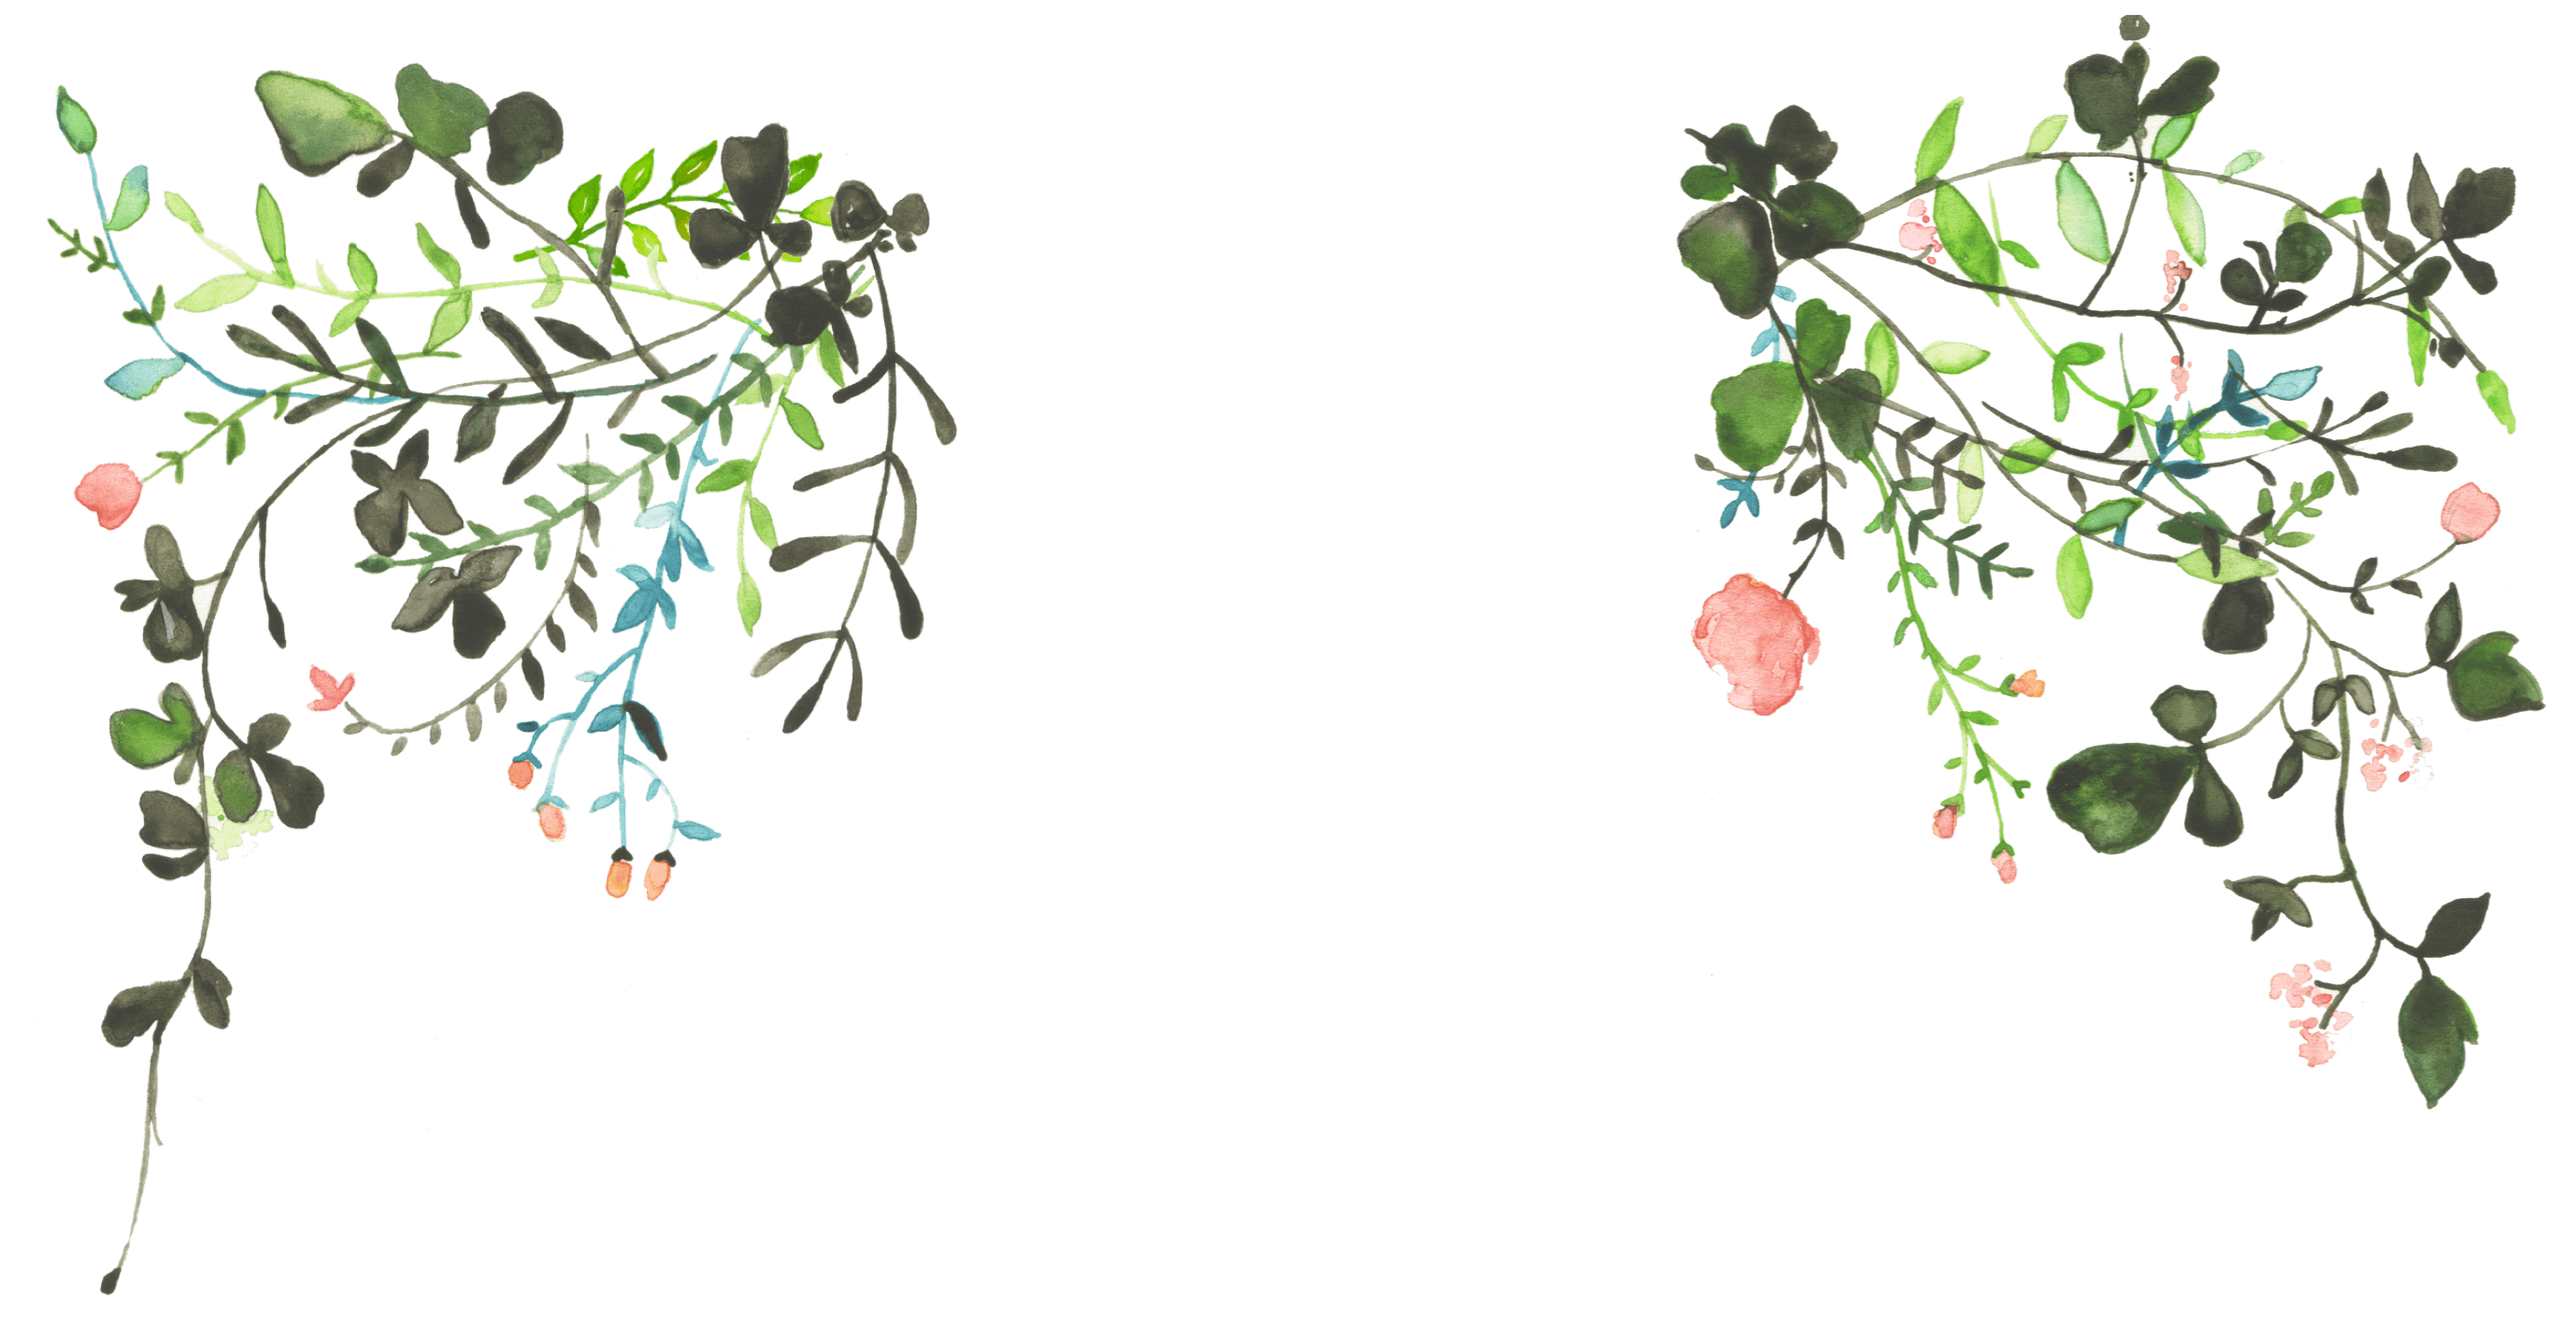
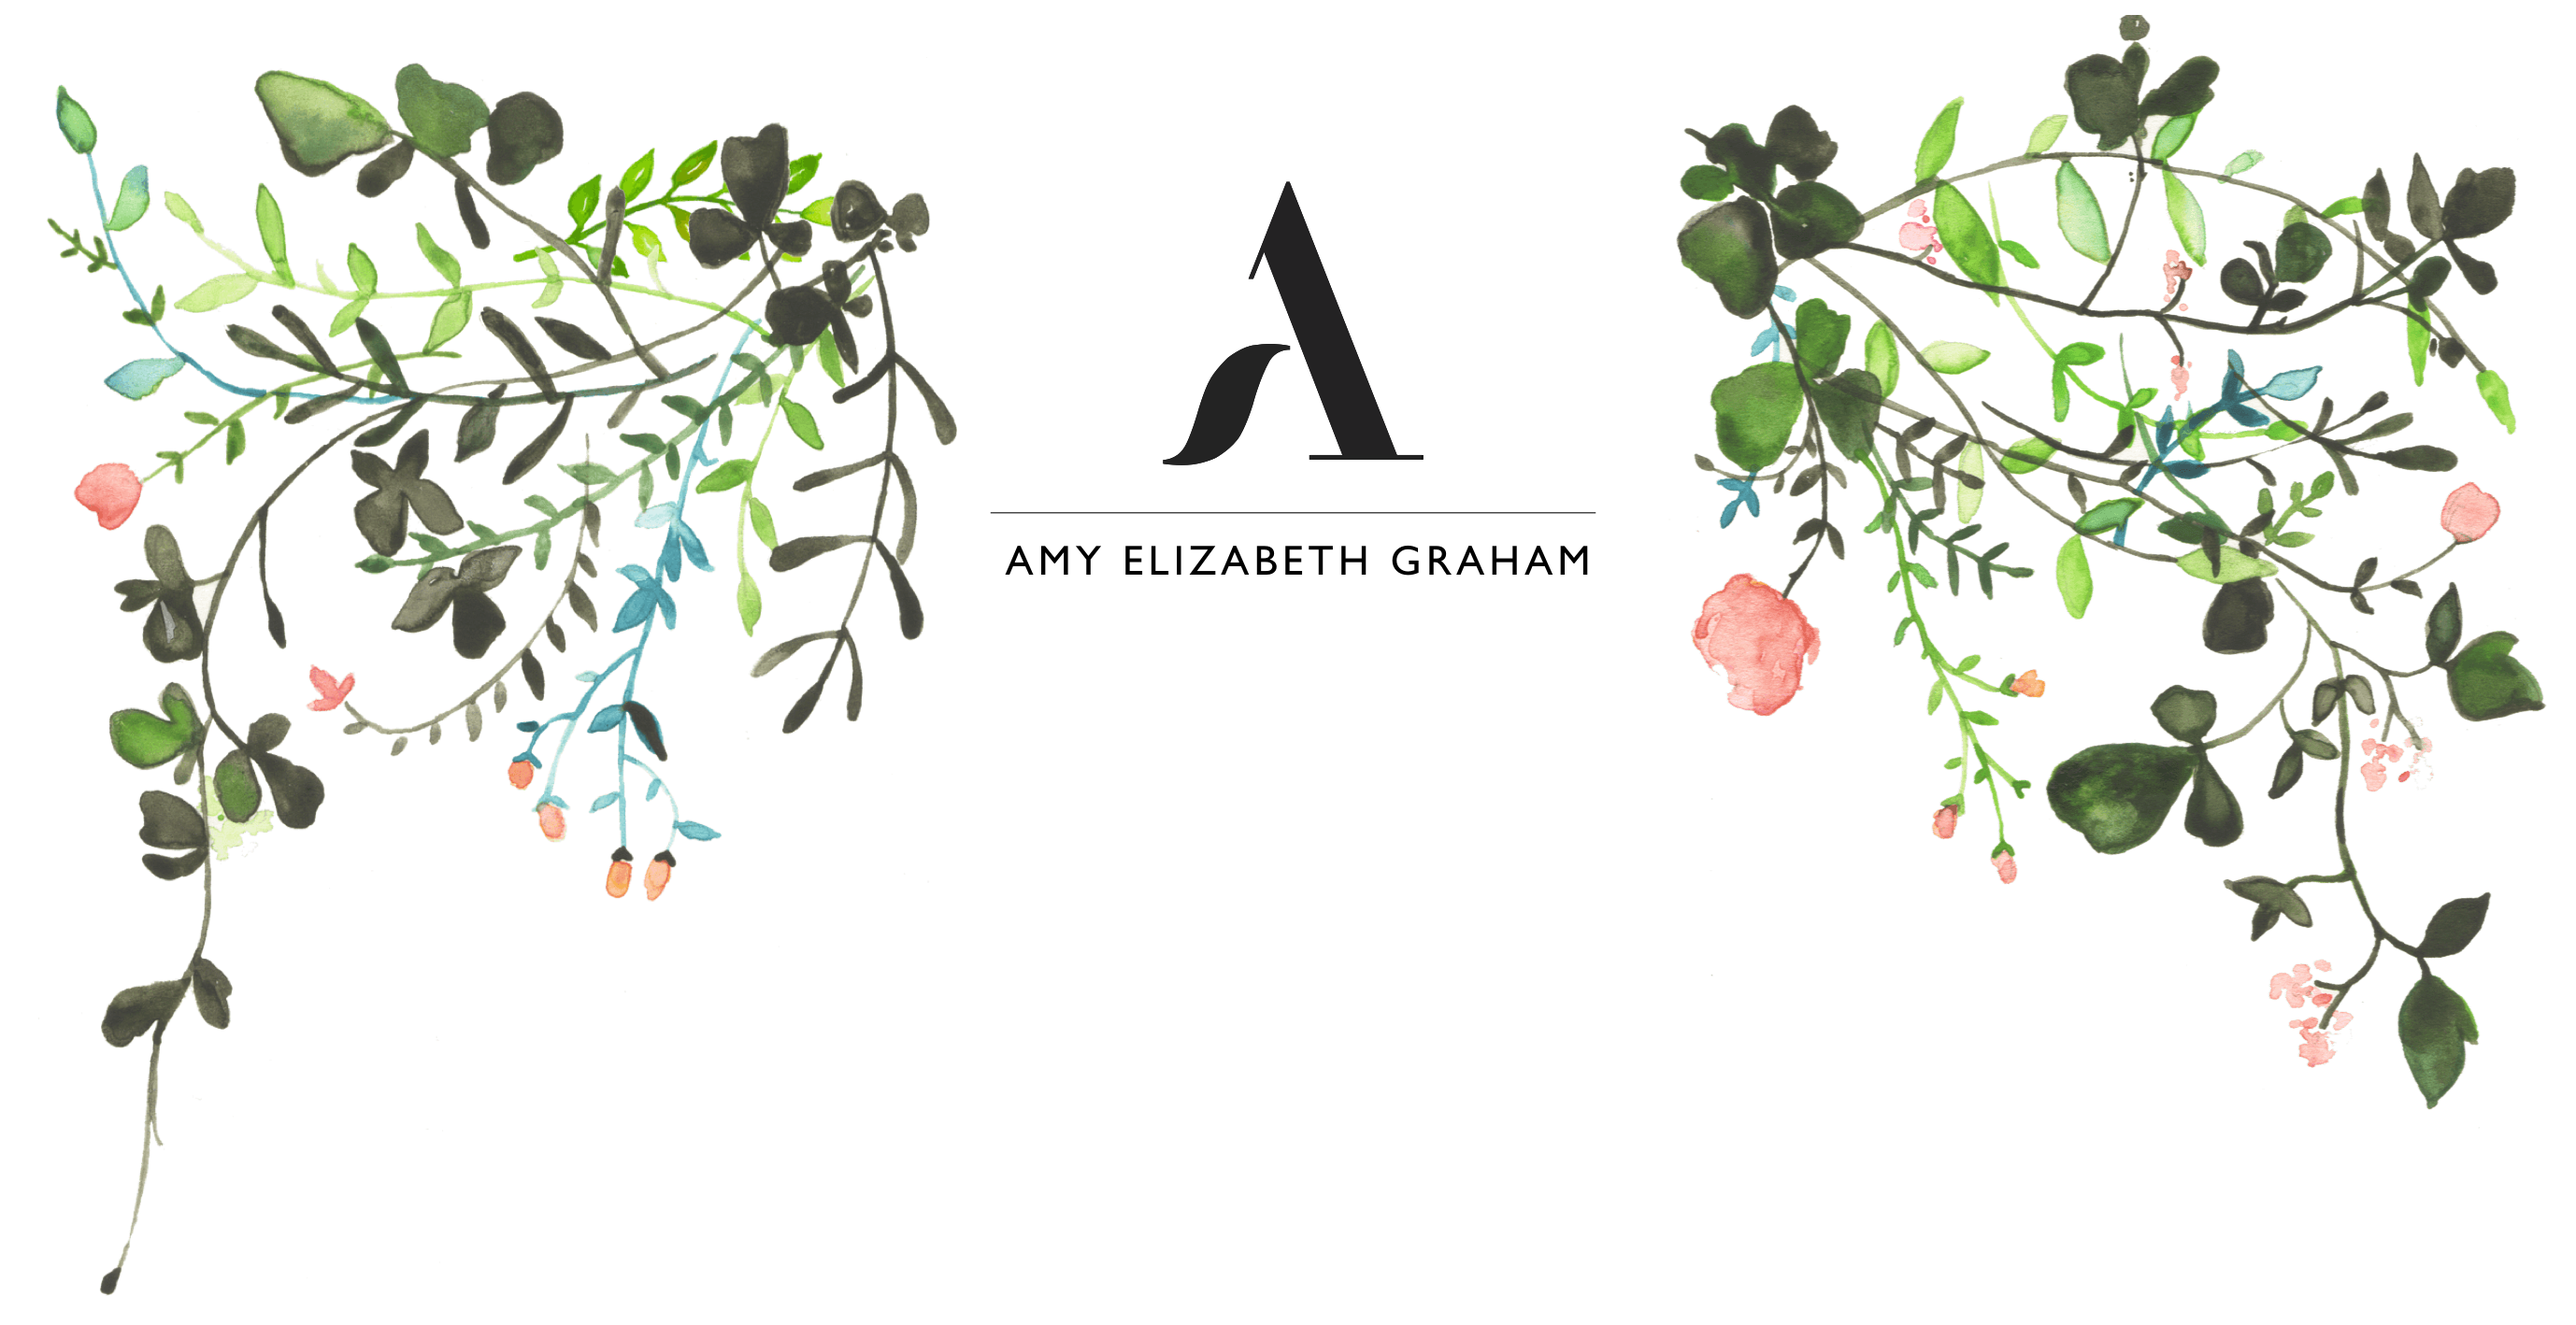
/

Changed region(s): [[0.4369, 0.1551, 0.5617, 0.3724], [0.3745, 0.4034, 0.6241, 0.4344]]

diff --git a/css.css b/css.css
@@ -12,11 +12,10 @@ line-height: 1cm;
 
 .background {
     background-position: center;
-    position: absolute;
-    left: 0;
+    position: relative;
     background-repeat: no-repeat;
     z-index: -1;
-    width: 100%;
+    width: 95%;
     height: auto;
     align-content: center;
 }
@@ -108,7 +107,7 @@ div.container {
     width: 100%;
     opacity: 1;
     padding-top: .8em;
-    height: 60em;
+    height: 48em;
     }
 
 div.container2 {
@@ -206,8 +205,7 @@ position: relative; }
     padding-top: 2em;
     padding-bottom: 4em;
     color: darkslategrey;
-    text-align: left;
-    align-content: center;}
+    text-align: left;}
 
 a { color: #88B891;}
 
@@ -261,7 +259,7 @@ h3 {
   text-transform: uppercase;
   letter-spacing: 0.1em;
   font-size: 1.4em;
-    font-weight: 700;
+  font-weight: 700;
 }
 
 

diff --git a/index.html b/index.html
@@ -31,22 +31,10 @@
         
          <body>
               <center>
-          <img src="images/floral1.png" class="background">
+          <img src="images/floral1.png" class="background animated fadeIn">
         <br>
         <br>
-       
-        <img src="images/Amarque3.svg" img class="marque animated fadeIn">
-            
-        <div class="hr animated fadeIn">
-        <hr  />
-        </div>
-                  
-        <div class="nametop animated fadeIn">
-        <h1>AMY ELIZABETH GRAHAM</h1>
-        </div>
-
-    <a href="#middle" class="smoothScroll"><img src="images/arrow.svg" img class="arrow animated bounce"></a>
-                <br>
+    
       
              </center>
         </body>

diff --git a/ishared.html b/ishared.html
@@ -130,7 +130,7 @@
     <br>
         <br>
         
-    <center><iframe width="1000" height="515" src="https://www.youtube.com/embed/X871jtLt7D8" frameborder="0" allowfullscreen></iframe></center>
+    <center><iframe width="1128" height="525" src="https://www.youtube.com/embed/X871jtLt7D8" frameborder="0" allowfullscreen></iframe></center>
         
 
         </div>
